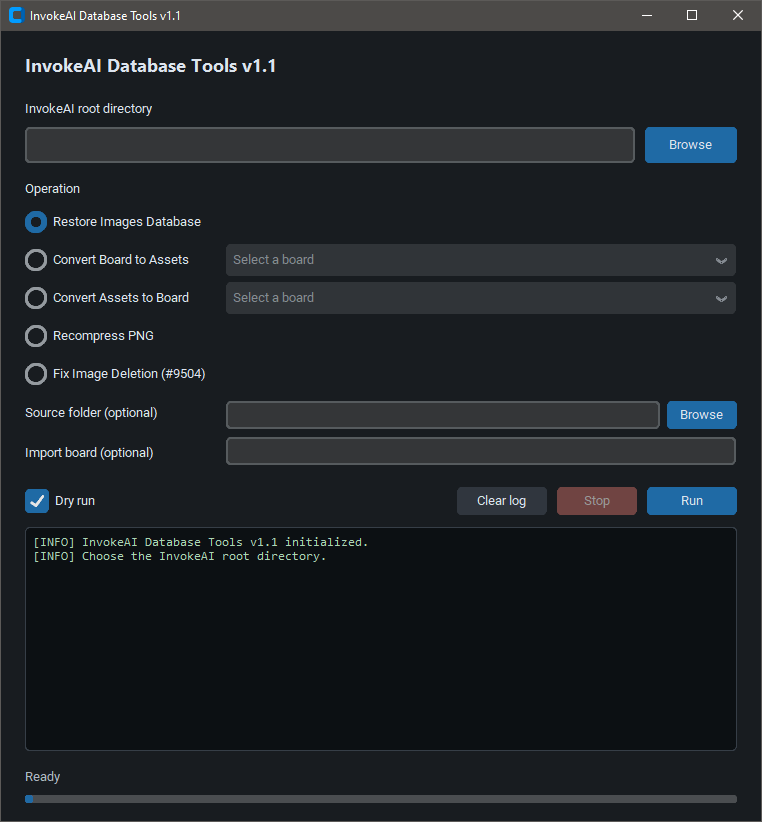
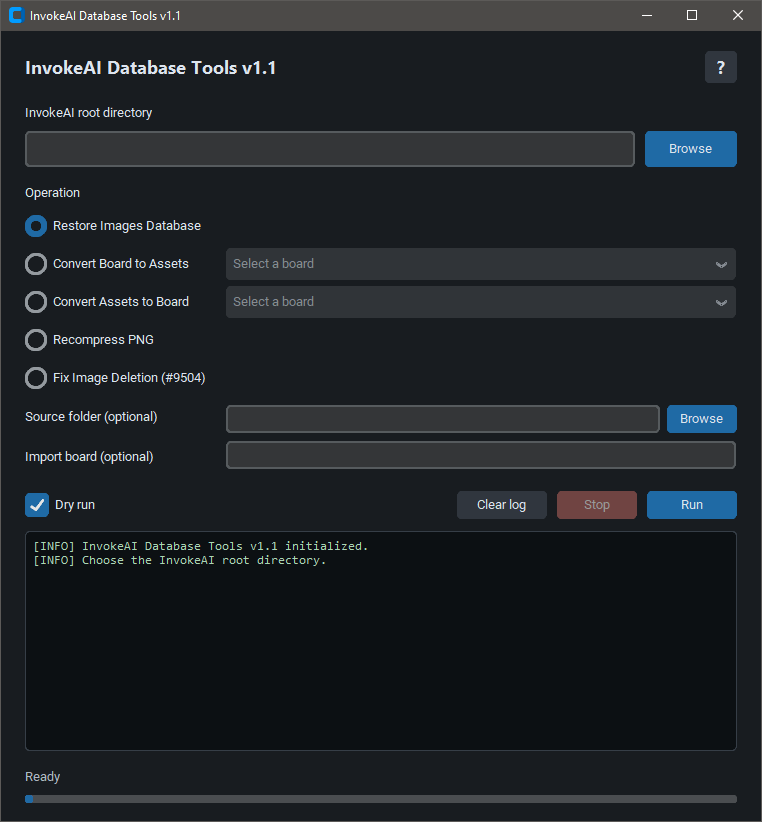
Add About dialog with GitHub link and refresh application screenshot
Add a compact help button beside the heading and a single About window centered on the application monitor. Use InvokeAI Database Tools consistently in the UI and README, and replace the README screenshot with the current interface.

Validated with 51 tests and isolated standalone EXE checks. Rebuilt the v1.1 Windows executable.

diff --git a/app.py b/app.py
@@ -11,6 +11,7 @@ import tempfile
 import runpy
 import time
 import traceback
+import webbrowser
 import tkinter as tk
 from tkinter import filedialog, messagebox
 
@@ -19,6 +20,7 @@ import yaml
 from version import VERSION
 
 REPO = Path(__file__).resolve().parent
+GITHUB_URL = 'https://github.com/DustyShoe/InvokeAI-Tools-GUI'
 OPERATIONS = {
     'restore': ('Restore Images Database', 'scripts/Restore_Images_DB_v3.1.py'),
     'assets': ('Convert Board to Assets', 'scripts/Convert_Board_to_Assets_v1.1.py'),
@@ -225,7 +227,16 @@ class App(ctk.CTk):
         self.board_selection_root = None
         self.menus = {}
         self.operation_help = []
-        ctk.CTkLabel(self, text=f'InvokeAI Database Tools v{VERSION}', font=('Segoe UI', 18, 'bold'), anchor='w').grid(row=0, column=0, sticky='ew', padx=24, pady=(20, 16))
+        self.about_window = None
+        header = ctk.CTkFrame(self, fg_color='transparent')
+        header.grid(row=0, column=0, sticky='ew', padx=24, pady=(20, 16))
+        header.grid_columnconfigure(0, weight=1)
+        ctk.CTkLabel(header, text=f'InvokeAI Database Tools v{VERSION}',
+                     font=('Segoe UI', 18, 'bold'), anchor='w').grid(row=0, column=0, sticky='ew')
+        self.about_button = ctk.CTkButton(header, text='?', width=32, height=32,
+                                         font=('Segoe UI', 18, 'bold'), fg_color='#30363e',
+                                         hover_color='#414b57', command=self.show_about)
+        self.about_button.grid(row=0, column=1, padx=(12, 0))
         paths = ctk.CTkFrame(self, fg_color='transparent')
         paths.grid(row=1, column=0, sticky='ew', padx=24)
         paths.grid_columnconfigure(0, weight=1)
@@ -296,6 +307,37 @@ class App(ctk.CTk):
         self.update_controls()
         self.protocol('WM_DELETE_WINDOW', self.close)
         self.after(80, self.poll)
+
+    def show_about(self):
+        if self.about_window is not None and self.about_window.winfo_exists():
+            self.about_window.lift()
+            self.about_window.focus_set()
+            return
+        window = tk.Toplevel(self, bg='#181c20')
+        self.about_window = window
+        window.withdraw()
+        window.title('About')
+        window.transient(self)
+        window.resizable(False, False)
+        ctk.CTkLabel(window, text=f'InvokeAI Database Tools v{VERSION}',
+                     font=('Segoe UI', 18, 'bold')).pack(padx=24, pady=(24, 8))
+        ctk.CTkLabel(window, text='Database maintenance and PNG recompression.').pack(padx=24, pady=(0, 16))
+        ctk.CTkButton(window, text='GitHub: DustyShoe/InvokeAI-Tools-GUI',
+                      command=self.open_github, cursor='hand2').pack(padx=24, pady=(0, 24))
+        window.bind('<Escape>', lambda event: window.destroy())
+        window.update_idletasks()
+        width, height = max(420, window.winfo_reqwidth()), max(190, window.winfo_reqheight())
+        left, top, right, bottom = monitor_work_area(self)
+        x = self.winfo_rootx() + (self.winfo_width() - width) // 2
+        y = self.winfo_rooty() + (self.winfo_height() - height) // 2
+        x = max(left + 8, min(x, right - width - 8))
+        y = max(top + 8, min(y, bottom - height - 8))
+        window.geometry(f'{width}x{height}+{x}+{y}')
+        window.deiconify()
+        window.focus_set()
+
+    def open_github(self):
+        webbrowser.open(GITHUB_URL, new=2)
 
     def append_log(self, text):
         self.log.configure(state='normal')

diff --git a/README.md b/README.md
@@ -1,10 +1,10 @@
-# InvokeAI Tools GUI v1.1
+# InvokeAI Database Tools v1.1
 
 A desktop application for InvokeAI database maintenance and PNG recompression.
 It brings the scripts from [InvokeAI-Tools](https://github.com/DustyShoe/InvokeAI-Tools)
 together in a convenient graphical interface.
 
-![InvokeAI Tools GUI v1.1 screenshot](docs/images/invokeai-tools-gui-v1.1.png)
+![InvokeAI Database Tools v1.1 screenshot](docs/images/invokeai-tools-gui-v1.1.png)
 
 ## Getting started
 
